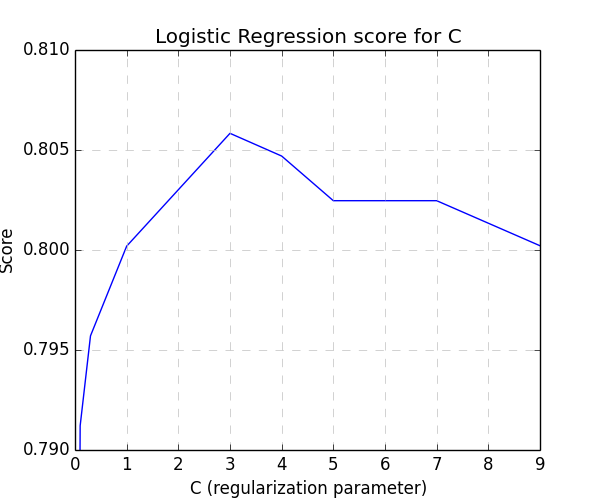
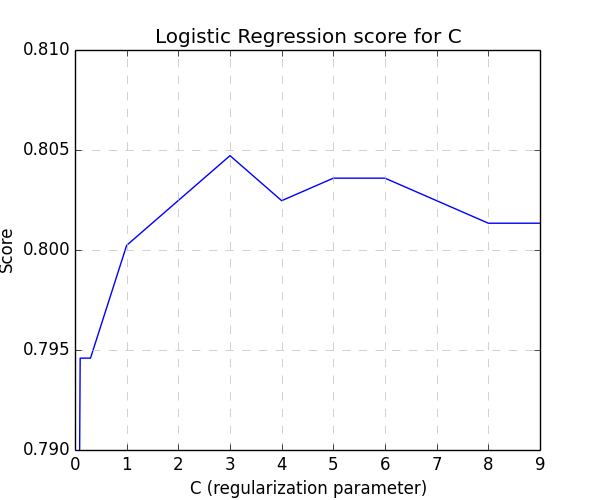
remove Age*Class feature from logistic regression model

diff --git a/titanic/03_logistic_regression.py b/titanic/03_logistic_regression.py
@@ -33,7 +33,7 @@ def prepareFeatures(dataframe, median_ages=None):
 
 	# Engineered features
 	X['FamilySize'] = df['SibSp'] + df['Parch']
-	X['Age*Class'] = X.AgeFill * df.Pclass
+	#X['Age*Class'] = X.AgeFill * df.Pclass
 
 	# Drop useless string columns
 	X = X.drop(['PclassIdx','Age'], axis=1)
@@ -100,7 +100,7 @@ for datasize in np.arange(50, len(X_train), 20):
 def plot_bias_variance(data_sizes, train_errors, test_errors, title):
     pylab.figure(num=None, figsize=(6, 5))
     pylab.ylim([0.0, 1.0])
-    pylab.xlabel('Data set size')
+    pylab.xlabel('Training set size')
     pylab.ylabel('Error')
     pylab.title(title)
     pylab.plot(
@@ -110,7 +110,8 @@ def plot_bias_variance(data_sizes, train_errors, test_errors, title):
     pylab.savefig('charts/logreg_bias_variance.png')
 
 plot_bias_variance(np.arange(50, len(X_train), 20), train_errors, cv_errors, "Learning curve for Titanic Logistic Regression")
-# the curve shows we have high bias (we don't really fit the training set much better than the cross-validation set)
+# the curve shows we have high bias (we don't really fit the training set much better than the cross-validation set, and more
+#	training examples doesn't improve the test Error)
 #  ==> we need a more complex model (non-linear?)
 lr = sklearn.linear_model.LogisticRegression(C = best_C)
 lr.fit(X,Y)
